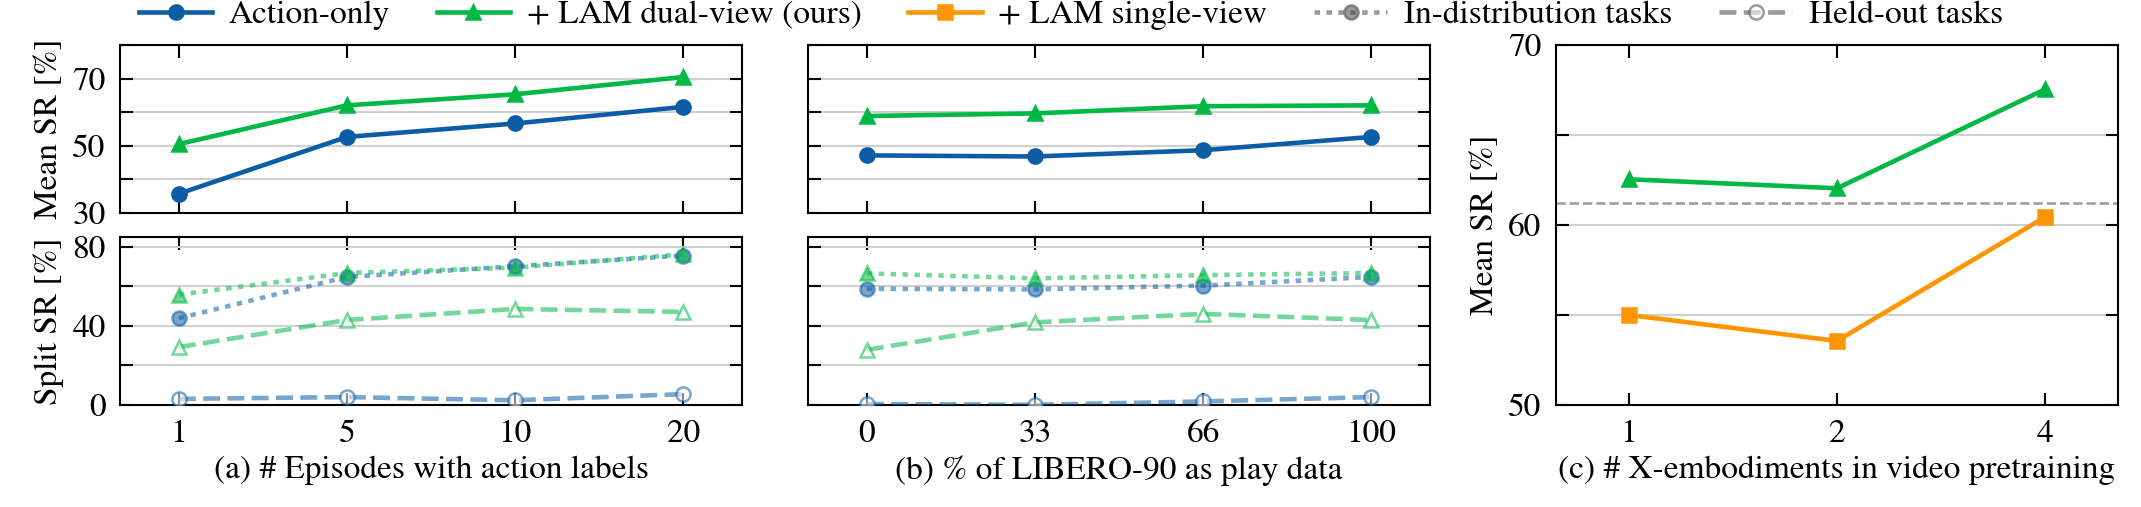
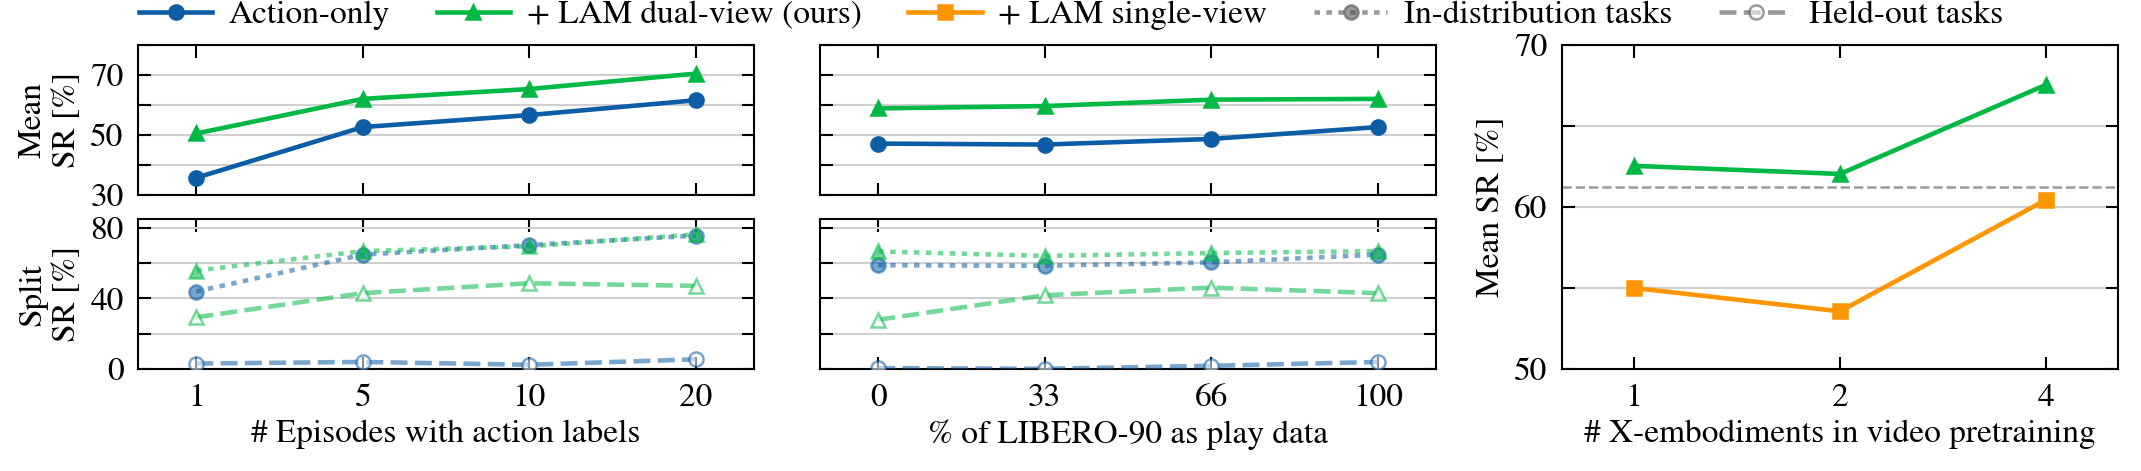
libero_scaling_row: rows -10%, two-line y labels, no (a)(b)(c) tags; realworld_row: bold 0 on zero bars
libero_scaling_row: BODY_IN 0.56 -> 0.50, left-column y labels break before
"SR [%]", x labels drop the (a)/(b)/(c) tags (the caption says left / middle
/ right). realworld_row: a bar at exactly 0% drew nothing, so the slot read as
missing; the left panel now prints a bold "0" where such a bar would start.

Claude-Session: https://claude.ai/code/session_018iqPdRCpMdDBJKapJddPky

diff --git a/plot_libero_scaling_row.py b/plot_libero_scaling_row.py
@@ -68,10 +68,11 @@ METHOD_LABELS = {"action_only_sr": "Action-only", "video_sr": "+ LAM dual-view (
                  "sideview_sr": "+ LAM single-view"}
 
 SWEEPS = ["budget", "play", "xemb"]
+# No (a)/(b)/(c) tags: the caption refers to the panels as left / middle / right.
 SWEEP_XLABELS = {
-    "budget": "(a) # Episodes with action labels",
-    "play": "(b) % of LIBERO-90 as play data",
-    "xemb": "(c) # X-embodiments in video pretraining",
+    "budget": "# Episodes with action labels",
+    "play": "% of LIBERO-90 as play data",
+    "xemb": "# X-embodiments in video pretraining",
 }
 SPLIT_COLS = ["budget", "play"]        # the two-row columns
 SPAN_COL = "xemb"                      # spans both rows, mean only
@@ -95,7 +96,7 @@ SPAN_YLIM, SPAN_YTICKS = (50, 70), [50, 55, 60, 65, 70]
 SEPARATOR_GREY = "#9a9a9a"   # lighter than INK_MUTED: a rule, not a series
 
 # Bands in inches, measured off the rendered 8pt text like the real-world row.
-YLABEL_IN = 0.40
+YLABEL_IN = 0.46      # two-line rotated y label ("Mean / SR [%]") plus tick labels
 YTICKS_C_IN = 0.20    # (c)'s own tick labels, taken out of its slot
 GUTTER_IN = 0.22
 RIGHT_PAD_IN = 0.08
@@ -104,7 +105,7 @@ LEGEND_ROWS = 1       # both factors in one row
 LEGEND_GAP_IN = 0.02
 ROW_GAP_IN = 0.08
 XTICKS_IN = 0.34
-BODY_IN = 0.56        # one row's plotting height (0.62 - 10%)
+BODY_IN = 0.50        # one row's plotting height (0.62 - 10% - 10%)
 FIG_HEIGHT_IN = (LEGEND_ROWS * LEGEND_ROW_IN + LEGEND_GAP_IN
                  + 2 * BODY_IN + ROW_GAP_IN + XTICKS_IN)
 
@@ -194,7 +195,7 @@ def main():
             else:
                 ax.tick_params(axis="x", labelbottom=False)
             if ci == 0:
-                ax.set_ylabel("Mean SR [%]" if row == "top" else "Split SR [%]", labelpad=2)
+                ax.set_ylabel("Mean\nSR [%]" if row == "top" else "Split\nSR [%]", labelpad=2)
             else:
                 ax.tick_params(axis="y", labelleft=False)
 

diff --git a/plot_realworld_row.py b/plot_realworld_row.py
@@ -449,6 +449,14 @@ def panel_bars(ax, task_ids, budgets, values, means, methods):
                    facecolor=style_for(mi),
                    hatch=budget_hatch(bi, len(budgets)),
                    edgecolor=style.MARKER_EDGE, linewidth=0.5, zorder=3)
+            # A bar at exactly 0% draws nothing, so the slot reads as missing data
+            # rather than as a measured zero. Print a bold "0" where the bar
+            # would start (2026-10-02); the single digit at the Mean numbers'
+            # size is 0.045in wide against the 0.064in bar, so it fits upright.
+            for xi, v in zip(x + off, values[(m, b)]):
+                if v == 0:
+                    ax.text(xi, 1.5, "0", ha="center", va="bottom", color=style.INK,
+                            fontweight="bold", fontsize=mpl.rcParams["font.size"] - 2.0, zorder=5)
             # Black on white here rather than the middle panel's black on fill,
             # so there is no contrast argument to make -- but it is the same
             # bold, because it is the same kind of number.
